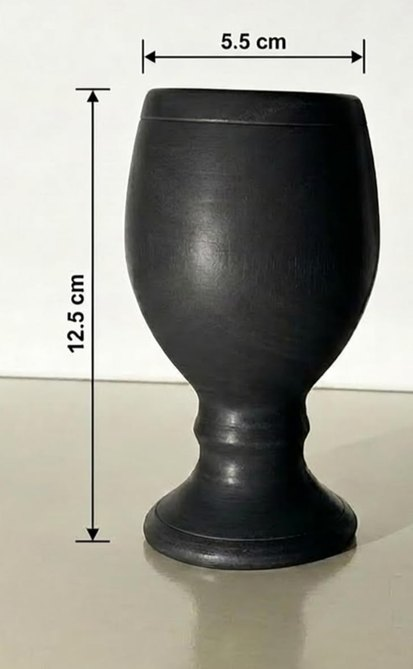
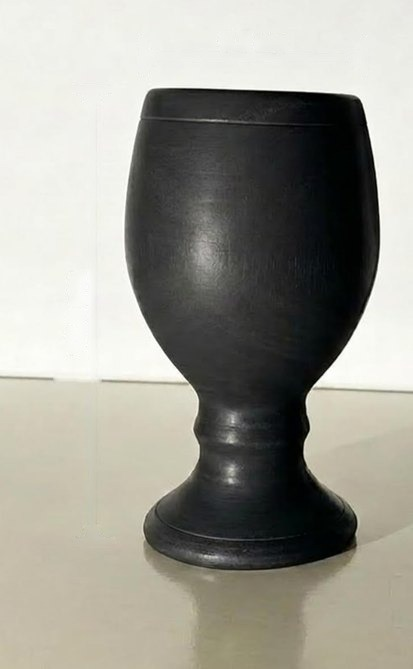
Capacities instead of measurements; add Jaam 200/400 ml and Tea cup cone; new tea cup photos; remove rulers from photos

Changed region(s): [[0.1453, 0.1196, 0.2615, 0.8371], [0.3196, 0.0299, 0.9007, 0.1196]]

diff --git a/js/products.js b/js/products.js
@@ -6,24 +6,29 @@
         'family' a fixed set sold as one item
         'zine'   a photo zine
 
-  size: shown on the card and sent in the order message.
+  size: capacity (e.g. '200 ml'), shown on the card and sent in the order message.
+  shape: the shape number customers see in the order message; keep it
+         stable once used (new shapes take the next free number).
   hint: shown on the card only.
   image: the plain shape, on the shape card.
   painted: a finished example, in the "How it turns out" strip (optional).
 */
 window.SOT_DATA = {
   products: [
-    { id: 'shape-1', kind: 'cup', shape: 1, name: 'Straight tumbler', size: '', price: 379, image: 'images/shape-1.jpg', painted: 'images/painted-1.jpg', fit: 'cover' },
-    { id: 'shape-2', kind: 'cup', shape: 2, name: 'Short cup', size: '6 cm tall, 7 cm wide', price: 349, image: 'images/shape-2.jpg', painted: 'images/painted-2.jpg' },
-    { id: 'shape-3', kind: 'cup', shape: 3, name: 'Handled mug (clay)', size: '9 cm tall, 11 cm wide', price: 449, image: 'images/shape-3.jpg', painted: 'images/painted-3.jpg' },
-    { id: 'shape-4', kind: 'cup', shape: 4, name: 'Tea cup', size: '', price: 349, image: 'images/shape-4.jpg', painted: 'images/painted-4.jpg' },
-    { id: 'shape-5', kind: 'cup', shape: 5, name: 'Goblet', size: '', price: 599, image: 'images/shape-5.jpg', painted: 'images/painted-5.jpg' },
-    { id: 'shape-6', kind: 'cup', shape: 6, name: 'Curved Kullhad', size: '', price: 499, image: 'images/shape-6.jpg', painted: 'images/painted-6.jpg', fit: 'cover' },
-    { id: 'shape-7', kind: 'cup', shape: 7, name: 'Black clay goblet', size: '12.5 cm tall, 5.5 cm wide', price: 649, image: 'images/shape-7.jpg', painted: 'images/painted-7.jpg' },
-    { id: 'shape-8', kind: 'cup', shape: 8, name: 'Cane-handle cup', size: '2.9 in tall, 2.75 in wide', price: 399, image: 'images/shape-8.jpg', painted: 'images/painted-8.jpg' },
+    { id: 'shape-1', kind: 'cup', shape: 1, name: 'Straight tumbler', size: '200 ml', price: 379, image: 'images/shape-1.jpg', painted: 'images/painted-1.jpg', fit: 'cover' },
+    { id: 'shape-2', kind: 'cup', shape: 2, name: 'Short cup', size: '120 ml', price: 349, image: 'images/shape-2.jpg', painted: 'images/painted-2.jpg' },
+    { id: 'shape-3', kind: 'cup', shape: 3, name: 'Handled mug (clay)', size: '375 ml', price: 449, image: 'images/shape-3.jpg', painted: 'images/painted-3.jpg' },
+    { id: 'shape-4', kind: 'cup', shape: 4, name: 'Tea cup', size: '150 ml', price: 349, image: 'images/shape-4.jpg', painted: 'images/painted-4.jpg', fit: 'cover' },
+    { id: 'shape-10', kind: 'cup', shape: 10, name: 'Tea cup cone', size: '120 ml', price: 349, image: 'images/shape-10.jpg', painted: 'images/painted-10.jpg' },
+    { id: 'shape-5', kind: 'cup', shape: 5, name: 'Goblet', size: '300 ml', price: 599, image: 'images/shape-5.jpg', painted: 'images/painted-5.jpg' },
+    { id: 'shape-6', kind: 'cup', shape: 6, name: 'Curved Kullhad', size: '300 ml', price: 499, image: 'images/shape-6.jpg', painted: 'images/painted-6.jpg', fit: 'cover' },
+    { id: 'shape-7', kind: 'cup', shape: 7, name: 'Black clay goblet', size: '275 ml', price: 649, image: 'images/shape-7.jpg', painted: 'images/painted-7.jpg' },
+    { id: 'shape-11', kind: 'cup', shape: 11, name: 'Jaam', size: '200 ml', price: 379, image: 'images/shape-11.jpg', painted: 'images/painted-11.jpg' },
+    { id: 'shape-12', kind: 'cup', shape: 12, name: 'Jaam', size: '400 ml', price: 499, image: 'images/shape-12.jpg', painted: 'images/painted-12.jpg' },
+    { id: 'shape-8', kind: 'cup', shape: 8, name: 'Cane-handle cup', size: '120 ml', price: 399, image: 'images/shape-8.jpg', painted: 'images/painted-8.jpg' },
     {
       id: 'family-set', kind: 'family', shape: 9, name: 'Family set',
-      size: '6 cups and 1 tray', price: 1299, image: 'images/shape-9.jpg', painted: 'images/painted-9.jpg',
+      size: '6 cups (200 ml each) and 1 tray', price: 1299, image: 'images/shape-9.jpg', painted: 'images/painted-9.jpg',
       includes: 'Name, caricature and message on the set',
     },
 

diff --git a/js/app.js b/js/app.js
@@ -91,7 +91,7 @@
       title = p.name;
       lines.push(DATA.zinePages);
     }
-    if (p.size && p.kind === 'cup') lines.push('Size: ' + p.size);
+    if (p.size && p.kind === 'cup') lines.push('Capacity: ' + p.size);
     if (item.note) lines.push('Notes: ' + item.note);
     return { title: title, lines: lines, unit: unit, shape: p.shape };
   }
@@ -373,7 +373,7 @@
     if (p.kind === 'cup') {
       html += '<label class="field"><span class="field-label">Shape</span><select name="shape">' +
         cups().map(function (c) {
-          return '<option value="' + c.id + '"' + (c.id === p.id ? ' selected' : '') + '>' + esc(c.name) + ', ' + inr(c.price) + '</option>';
+          return '<option value="' + c.id + '"' + (c.id === p.id ? ' selected' : '') + '>' + esc(c.name + (c.size ? ' (' + c.size + ')' : '')) + ', ' + inr(c.price) + '</option>';
         }).join('') + '</select></label>';
 
       html += '<fieldset class="field"><legend class="field-label">Order as</legend>' +
